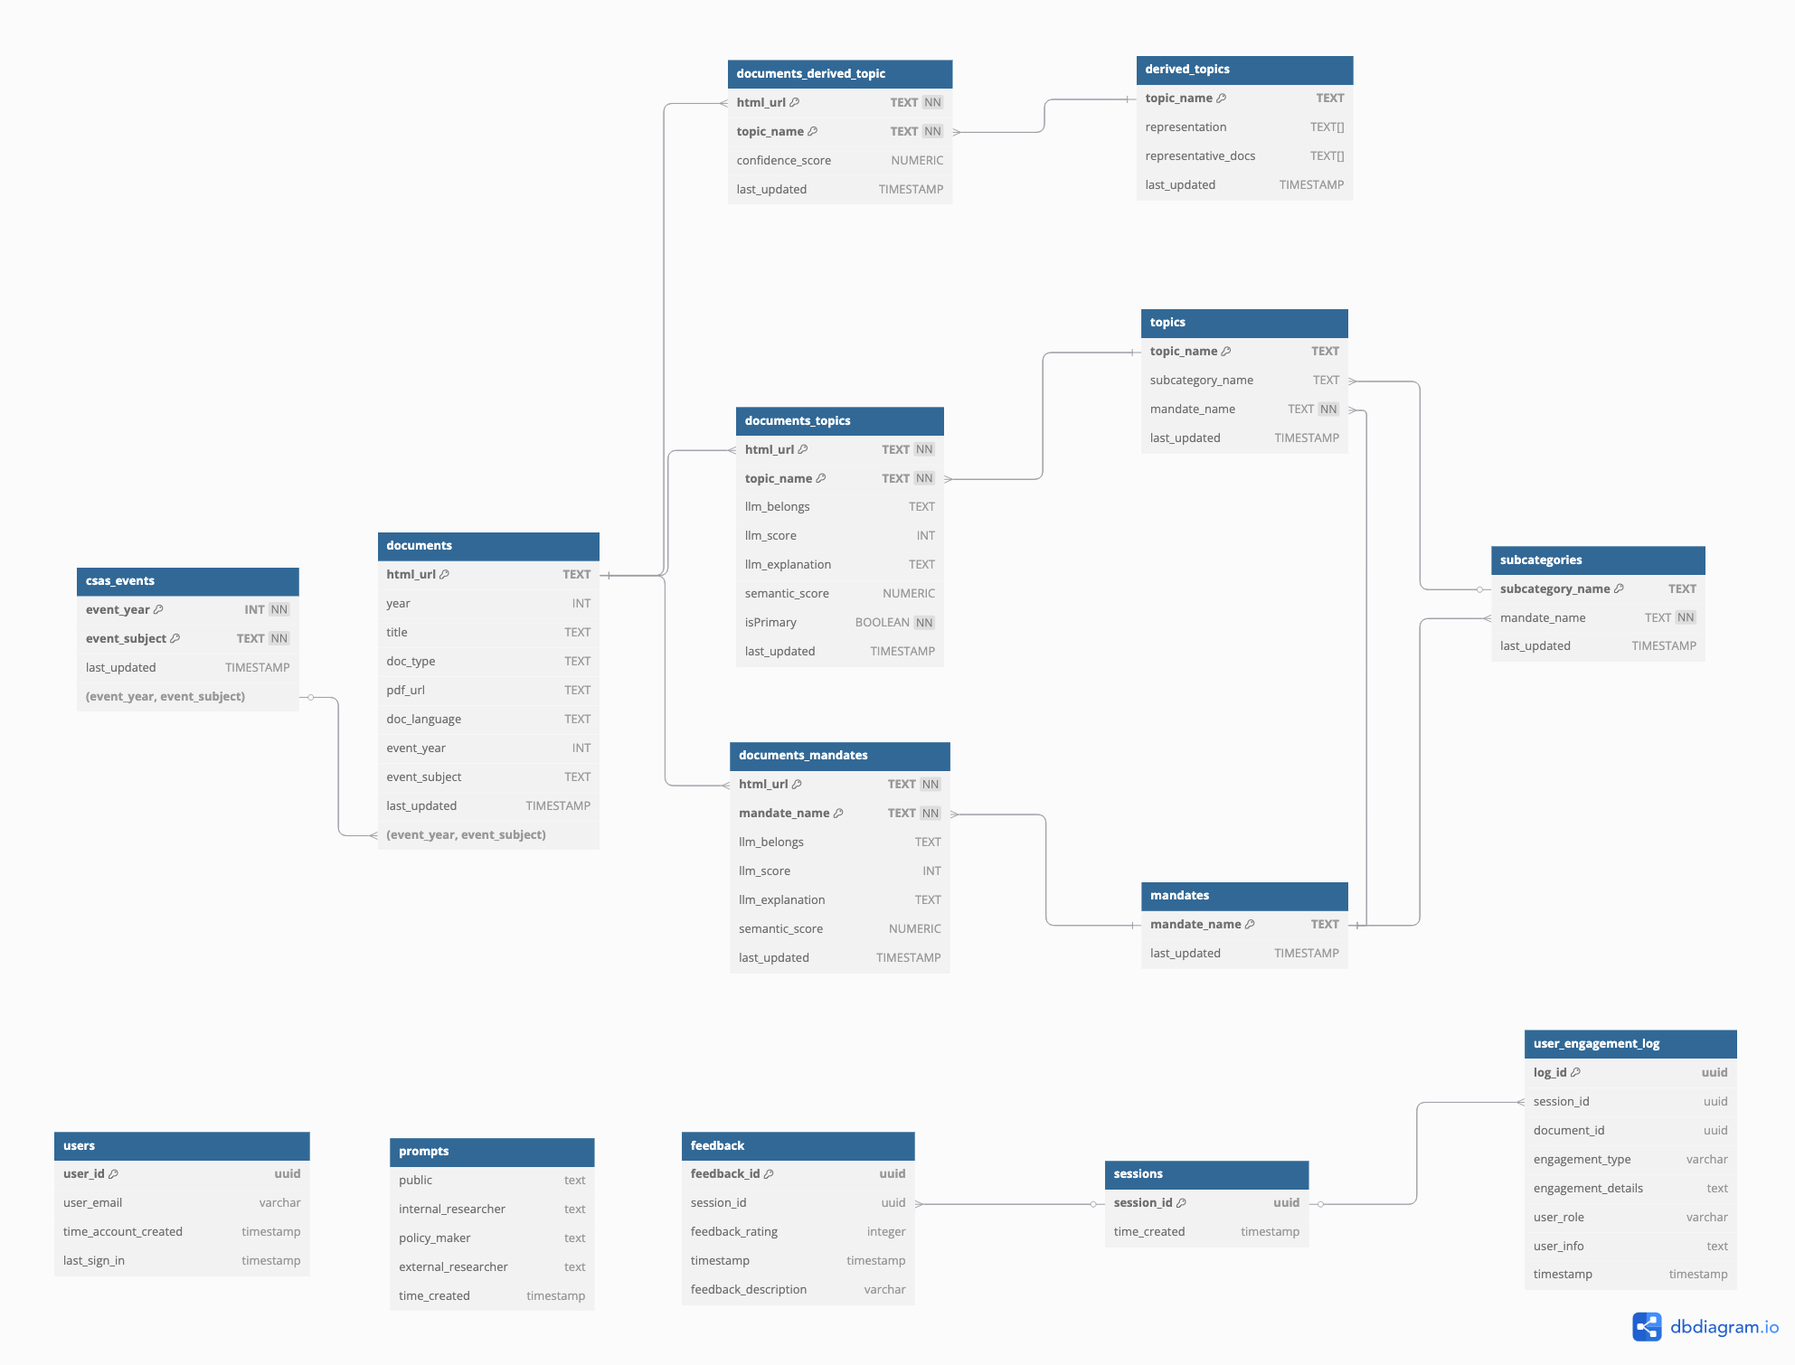
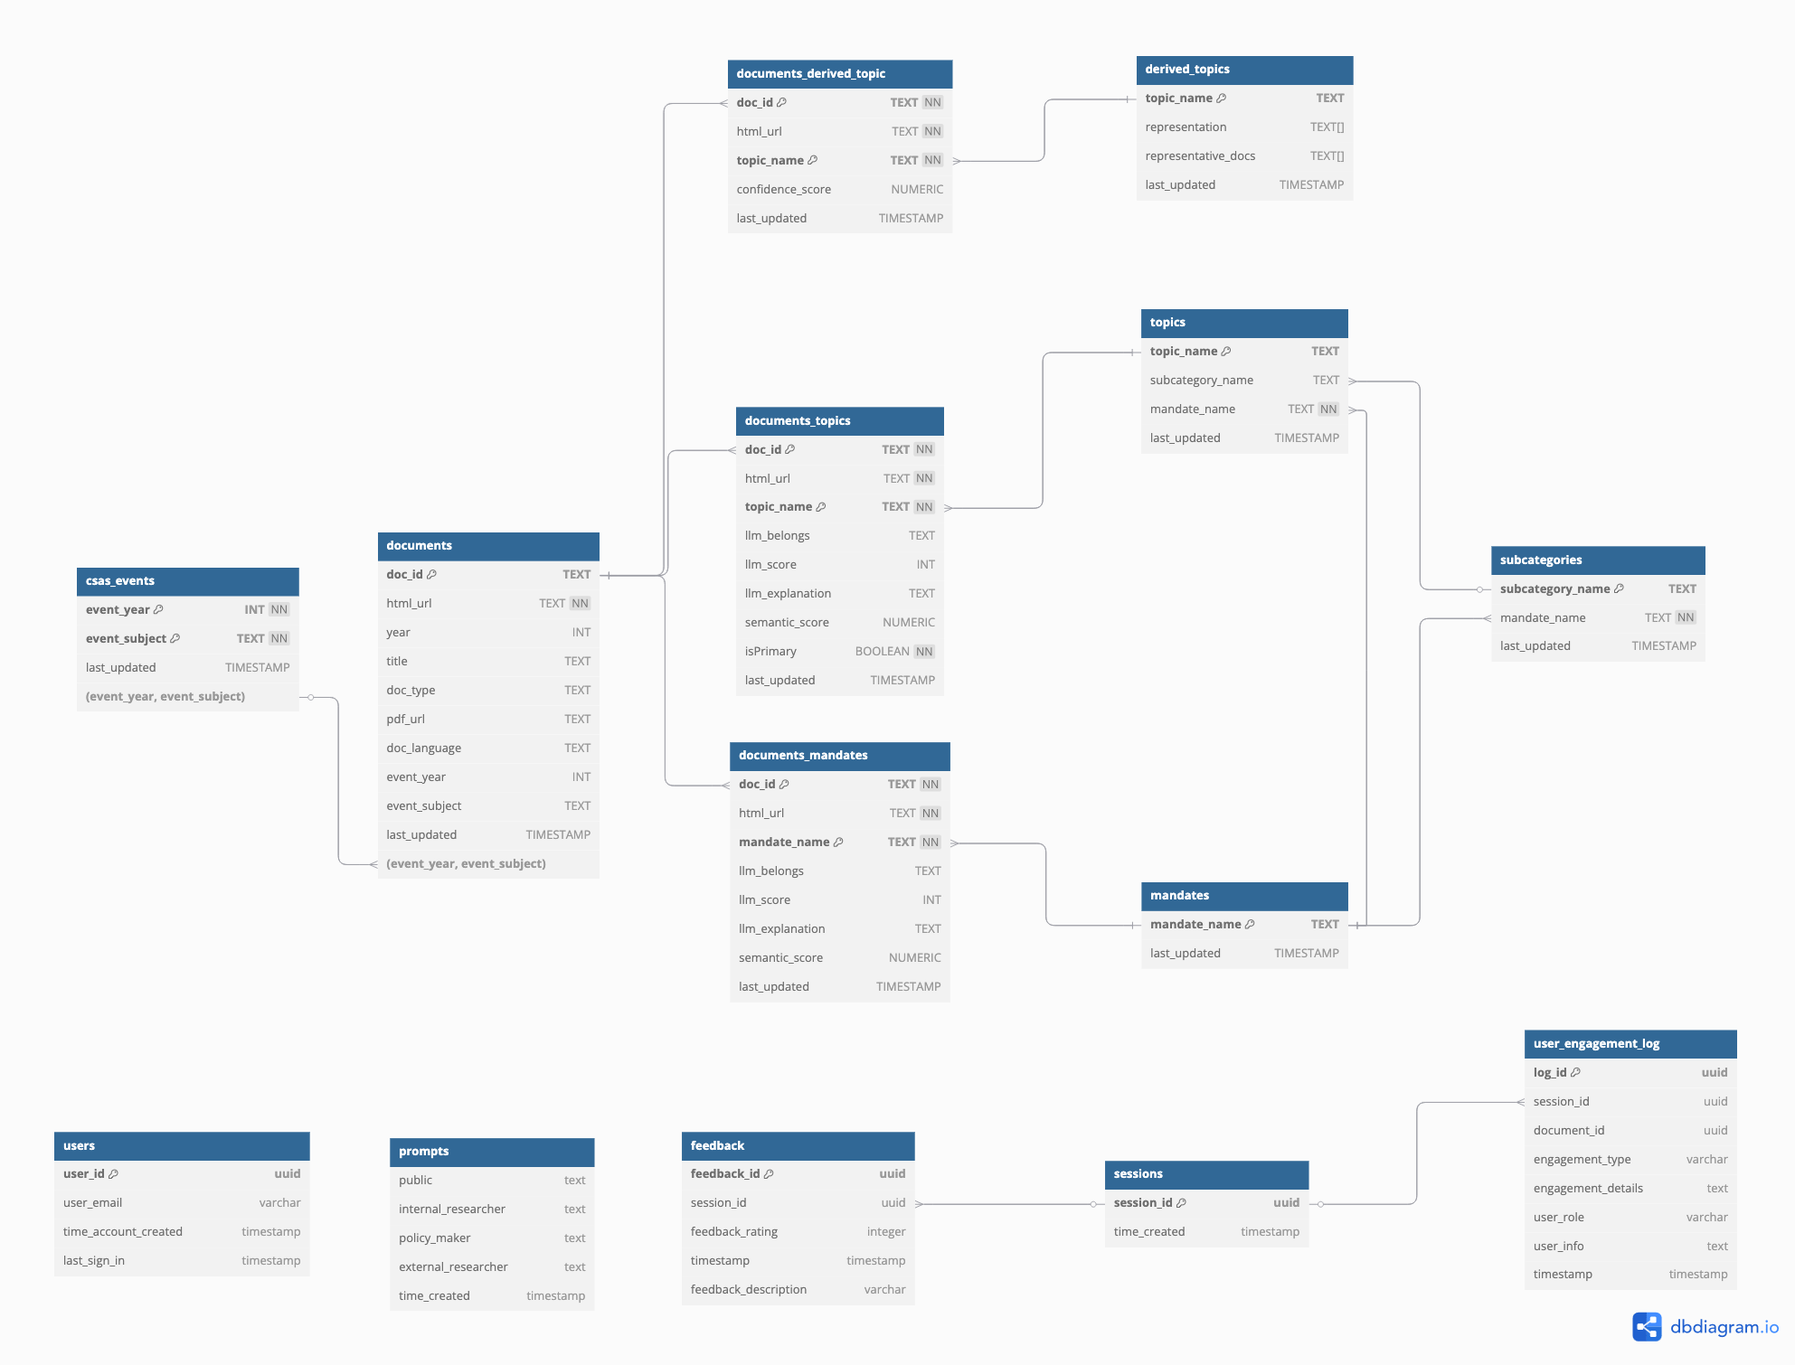
Final touchup (#23)
* various bug fixes and modification

* minor

diff --git a/cdk/lib/data-pipeline-stack.ts b/cdk/lib/data-pipeline-stack.ts
@@ -47,17 +47,18 @@ export class DataPipelineStack extends cdk.Stack {
         s3deploy.Source.data("bertopic_models/.ignore", ""),
       ],
       destinationBucket: this.dataUploadBucket,
+      prune: false
     });
 
     // Create S3 bucket for Glue scripts and custom modules
     this.glueBucket = new s3.Bucket(this, `${id}-glue-bucket`, {
       removalPolicy: cdk.RemovalPolicy.DESTROY,
       blockPublicAccess: s3.BlockPublicAccess.BLOCK_ALL,
-      encryption: s3.BucketEncryption.S3_MANAGED,
+      encryption: s3.BucketEncryption.S3_MANAGED
     });
 
     // Upload existing Glue scripts to the scripts bucket
-    new s3deploy.BucketDeployment(this, "DeployGlueScripts", {
+    new s3deploy.BucketDeployment(this, "DeployGlueJobScripts", {
       sources: [s3deploy.Source.asset("./glue/scripts/")],
       destinationBucket: this.glueBucket,
       destinationKeyPrefix: "glue/scripts",
@@ -169,9 +170,6 @@ export class DataPipelineStack extends cdk.Stack {
     "psycopg[binary]==3.2.6,boto3==1.38.1,langchain==0.3.12,langchain-community==0.3.12,langchain-aws==0.2.21,opensearch-py==2.5.0,pandas==2.2.3,openpyxl==3.1.5,numpy==1.26.4,scikit-learn==1.6.1,aiohttp==3.11.10,beautifulsoup4==4.12.3,bertopic==0.16.2,langdetect==1.0.9";
     // const PYTHON_LIBS = "boto3,langchain==0.3.12,langchain-community==0.3.12,langchain-aws==0.2.21,opensearch-py==2.5.0,openpyxl,pandas,numpy==1.26.4,scikit-learn,aiohttp==3.11.10,beautifulsoup4==4.12.3,bertopic==0.16.2,langdetect==1.0.9,psycopg[binary]==3.2.6,awswrangler";
 
-    // Not being used yet, please ignore
-    const opensearch_user_secret = opensearchStack.userSecret.secretName;
-    const opensearch_host = opensearchStack.domain.domainEndpoint;
     // Function to get common job arguments
     const getCommonJobArguments = (): GlueJobArguments => {
       return {
@@ -185,7 +183,7 @@ export class DataPipelineStack extends cdk.Stack {
         "--embedding_model": "amazon.titan-embed-text-v2:0",
         "--opensearch_secret":  opensearchStack.adminSecret.secretName,
         "--opensearch_host": opensearchStack.osHostParam.parameterName,
-        "--rds_secret": databaseStack.secretPathUser.secretName,
+        "--rds_secret": databaseStack.secretPathAdminName,
         "--dfo_html_full_index_name": "dfo-html-full-index",
         "--dfo_topic_full_index_name": "dfo-topic-full-index",
         "--dfo_mandate_full_index_name": "dfo-mandate-full-index",

diff --git a/cdk/lib/database-stack.ts b/cdk/lib/database-stack.ts
@@ -1,4 +1,4 @@
-import { Stack, StackProps, RemovalPolicy, SecretValue } from "aws-cdk-lib";
+import { Stack, StackProps, RemovalPolicy, SecretValue, CfnOutput } from "aws-cdk-lib";
 import { Construct } from "constructs";
 import { Duration } from "aws-cdk-lib";
 
@@ -47,6 +47,7 @@ export class DatabaseStack extends Stack {
      */
     this.secretPathAdminName = `${id}-DFO/credentials/DbCredential`; // Name in the Secret Manager to store DB credentials
     const secretPathUserName = `${id}-DFO/userCredentials/DbCredential`;
+    // this is the secret for the user, which is used to read/write to the database, but not to create tables
     this.secretPathUser = new secretsmanager.Secret(this, secretPathUserName, {
       secretName: secretPathUserName,
       description: "Secrets for clients to connect to RDS",
@@ -57,6 +58,7 @@ export class DatabaseStack extends Stack {
       },
     });
 
+    // this is the secret for the table creator, which is used to create the tables in the database
     const secretPathTableCreator = `${id}-DFO/userCredentials/rdsTableCreator`;
     this.secretPathTableCreator = new secretsmanager.Secret(
       this,

diff --git a/cdk/lib/opensearch-stack.ts b/cdk/lib/opensearch-stack.ts
@@ -1,4 +1,4 @@
-import { Stack, StackProps, Duration, RemovalPolicy } from "aws-cdk-lib";
+import { Stack, StackProps, Duration, RemovalPolicy, CfnOutput } from "aws-cdk-lib";
 import { Construct } from "constructs";
 import * as ec2 from "aws-cdk-lib/aws-ec2";
 import * as opensearch from "aws-cdk-lib/aws-opensearchservice";
@@ -115,5 +115,12 @@ export class OpenSearchStack extends Stack {
       parameterName: `/${id}/opensearch/user/secretArn`,
       stringValue: this.userSecret.secretArn,
     });
+
+    // // temporary workaround to still retain the cloudformation output
+    // const temp_output = new CfnOutput(this, "will-be-removed-soon", {
+    //   value: `arn:aws:secretsmanager:${this.region}:${this.account}:secret:DFO-OpenSearch-opensearch/user/credentials-BDQmoA`,
+    //   exportName: `DFO-OpenSearch:ExportsOutputRefOSUserSecretE72D1A391AA26852`
+    // });
+    // temp_output.overrideLogicalId("ExportsOutputRefOSUserSecretE72D1A391AA26852");
   }
 }

diff --git a/cdk/lambda/initializer/initializer.py b/cdk/lambda/initializer/initializer.py
@@ -69,6 +69,7 @@ def handler(event, context):
         # Create tables based on the schema
         sqlTableCreation = """
             CREATE EXTENSION IF NOT EXISTS "uuid-ossp";
+
             CREATE TABLE IF NOT EXISTS "users" (
                 "user_id" uuid PRIMARY KEY DEFAULT uuid_generate_v4(),
                 "user_email" varchar,
@@ -128,7 +129,8 @@ def handler(event, context):
 
             -- Documents Table
             CREATE TABLE IF NOT EXISTS "documents" (
-                "html_url" TEXT PRIMARY KEY,
+                "doc_id" TEXT PRIMARY KEY,
+                "html_url" TEXT UNIQUE NOT NULL,
                 "year" INT,
                 "title" TEXT,
                 "doc_type" TEXT,
@@ -174,17 +176,19 @@ def handler(event, context):
 
             -- Document-Derived_topics Many-to-One Table
             CREATE TABLE IF NOT EXISTS "documents_derived_topic" (
+                "doc_id" TEXT NOT NULL,
                 "html_url" TEXT NOT NULL,
                 "topic_name" TEXT NOT NULL,
                 "confidence_score" NUMERIC,
                 "last_updated" TIMESTAMP,
-                PRIMARY KEY("html_url", "topic_name"),
-                FOREIGN KEY ("html_url") REFERENCES "documents" ("html_url") ON DELETE CASCADE,
+                PRIMARY KEY("doc_id", "topic_name"),
+                FOREIGN KEY ("doc_id") REFERENCES "documents" ("doc_id") ON DELETE CASCADE,
                 FOREIGN KEY ("topic_name") REFERENCES "derived_topics" ("topic_name") ON DELETE CASCADE
             );
 
             -- Document-Mandates Many-to-Many Table
             CREATE TABLE IF NOT EXISTS "documents_mandates" (
+                "doc_id" TEXT NOT NULL,
                 "html_url" TEXT NOT NULL,
                 "mandate_name" TEXT NOT NULL,
                 "llm_belongs" TEXT,
@@ -192,13 +196,14 @@ def handler(event, context):
                 "llm_explanation" TEXT,
                 "semantic_score" NUMERIC,
                 "last_updated" TIMESTAMP,
-                PRIMARY KEY ("html_url", "mandate_name"),
-                FOREIGN KEY ("html_url") REFERENCES "documents" ("html_url") ON DELETE CASCADE,
+                PRIMARY KEY ("doc_id", "mandate_name"),
+                FOREIGN KEY ("doc_id") REFERENCES "documents" ("doc_id") ON DELETE CASCADE,
                 FOREIGN KEY ("mandate_name") REFERENCES "mandates" ("mandate_name") ON DELETE CASCADE
             );
 
             -- Document-Topics Many-to-Many Table
             CREATE TABLE IF NOT EXISTS "documents_topics" (
+                "doc_id" TEXT NOT NULL,
                 "html_url" TEXT NOT NULL,
                 "topic_name" TEXT NOT NULL,
                 "llm_belongs" TEXT,
@@ -207,8 +212,8 @@ def handler(event, context):
                 "semantic_score" NUMERIC,
                 "isPrimary" BOOLEAN NOT NULL,
                 "last_updated" TIMESTAMP,
-                PRIMARY KEY ("html_url", "topic_name"),
-                FOREIGN KEY ("html_url") REFERENCES "documents" ("html_url") ON DELETE CASCADE,
+                PRIMARY KEY ("doc_id", "topic_name"),
+                FOREIGN KEY ("doc_id") REFERENCES "documents" ("doc_id") ON DELETE CASCADE,
                 FOREIGN KEY ("topic_name") REFERENCES "topics" ("topic_name") ON DELETE CASCADE
             );
         """
@@ -273,8 +278,8 @@ def handler(event, context):
             GRANT CONNECT ON DATABASE postgres TO tablecreator;
 
             GRANT USAGE, CREATE ON SCHEMA public TO tablecreator;
-            GRANT SELECT, INSERT, UPDATE, DELETE ON ALL TABLES IN SCHEMA public TO tablecreator;
-            ALTER DEFAULT PRIVILEGES IN SCHEMA public GRANT SELECT, INSERT, UPDATE, DELETE ON TABLES TO tablecreator;
+            GRANT SELECT, INSERT, UPDATE, DELETE, TRUNCATE ON ALL TABLES IN SCHEMA public TO tablecreator;
+            ALTER DEFAULT PRIVILEGES IN SCHEMA public GRANT SELECT, INSERT, UPDATE, DELETE, TRUNCATE ON TABLES TO tablecreator;
             GRANT USAGE ON ALL SEQUENCES IN SCHEMA public TO tablecreator;
             ALTER DEFAULT PRIVILEGES IN SCHEMA public GRANT USAGE ON SEQUENCES TO tablecreator;
 

diff --git a/cdk/glue/scripts/topic_modelling.py b/cdk/glue/scripts/topic_modelling.py
@@ -44,7 +44,9 @@ args = getResolvedOptions(sys.argv, [
     'dfo_topic_full_index_name',
     'dfo_mandate_full_index_name',
     'pipeline_mode',
-    'llm_model'
+    'llm_model',
+    'sm_method',
+    'topic_modelling_mode'
 ])
 
 REGION_NAME = args['region_name']
@@ -248,9 +250,11 @@ def generate_topic_labels(
             continue
 
         top_words = [word for word, _ in topic_model.get_topic(topic_id)[:num_words]]
+        top_words = ", ".join(top_words)
         docs = topic_model.get_representative_docs(topic_id)[:num_docs]
-
-        prompt = f"""
+        docs = "\n\n".join(docs)
+        
+        prompt = """
         <|begin_of_text|><|start_header_id|>system<|end_header_id|>
         You are labeling research topics for Fisheries and Oceans Canada using BERTopic clusters.
 
@@ -273,13 +277,13 @@ def generate_topic_labels(
         - “Fisheries Bycatch in Atlantic Canada”
 
         Data for this topic:
-        - Top words: {', '.join(top_words)}
+        - Top words: {top_words}
         - Representative documents:
-        {"\n\n".join(docs)}
+        {docs}
 
         Respond with the **topic label only** — no explanations.
         <|eot_id|><|start_header_id|>assistant<|end_header_id|>
-        """
+        """.format(top_words=top_words, docs=docs)
 
         body = json.dumps({
             "prompt": prompt,
@@ -682,7 +686,7 @@ def main(dryrun=False, debug=False):
         # Load existing models from S3
         s3_client = session.client('s3')
         bucket = args['bucket_name']
-        s3_model_path = f"bertopic_model"
+        s3_model_path = f"bertopic_models"
         
         # Create temporary directory
         temp_dir = "temp_outputs/bertopic"
@@ -851,7 +855,7 @@ def main(dryrun=False, debug=False):
     # Save models and data to S3
     s3_client = session.client('s3')
     bucket = args['bucket_name']
-    s3_output_path = f"bertopic_model"
+    s3_output_path = f"bertopic_models"
     
     # Create temporary directory for model files
     os.makedirs(temp_dir, exist_ok=True)

diff --git a/cdk/glue/scripts/vector_llm_categorization.py b/cdk/glue/scripts/vector_llm_categorization.py
@@ -7,7 +7,7 @@ import os
 import json
 import asyncio
 from collections import defaultdict
-from typing import Dict, List, Optional, Tuple, Any
+from typing import Dict, List, Optional, Tuple, Any, Union
 from datetime import datetime
 import hashlib
 
@@ -47,7 +47,9 @@ args = getResolvedOptions(sys.argv, [
     'dfo_topic_full_index_name',
     'dfo_mandate_full_index_name',
     'pipeline_mode',
-    'llm_model'
+    'llm_model',
+    'sm_method',
+    'topic_modelling_mode'
 ])
 
 # Index Names
@@ -486,7 +488,7 @@ def numpy_semantic_similarity_categorization(
     return full_df, max_df
 
 
-def semantic_similarity(targets, target_embeddings, documents, document_embeddings, method="numpy", n=10, vector_store=None) -> pd.DataFrame | dict:
+def semantic_similarity(targets, target_embeddings, documents, document_embeddings, method="numpy", n=10, vector_store=None) -> Union[pd.DataFrame, dict]:
     """
     Perform semantic similarity using either numpy or OpenSearch.
     """
@@ -846,6 +848,7 @@ def trigger_next_job(job_name: str, job_args: dict) -> None:
     glue_client = session.client('glue')
     try:
         formatted_args = {f"--{k}": v for k, v in job_args.items()}
+        del formatted_args['--NEXT_JOB_NAME'] # this arg is handled via CDK, so we don't want to retrigger the same job
         response = glue_client.start_job_run(
             JobName=job_name,
             Arguments=formatted_args

diff --git a/cdk/glue/scripts/sql_ingestion.py b/cdk/glue/scripts/sql_ingestion.py
@@ -34,7 +34,9 @@ args = getResolvedOptions(sys.argv, [
     'dfo_topic_full_index_name',
     'dfo_mandate_full_index_name',
     'pipeline_mode',
-    'llm_model'
+    'llm_model',
+    'sm_method',
+    'topic_modelling_mode'
 ])
 
 
@@ -493,6 +495,7 @@ def trigger_next_job(job_name: str, job_args: dict) -> None:
     glue_client = session.client('glue')
     try:
         formatted_args = {f"--{k}": v for k, v in job_args.items()}
+        del formatted_args['--NEXT_JOB_NAME'] # this arg is handled via CDK, so we don't want to retrigger the same job
         response = glue_client.start_job_run(
             JobName=job_name,
             Arguments=formatted_args
@@ -507,7 +510,7 @@ def main(dryrun: bool = False, debug: bool = False):
     print(f"Dryrun: {dryrun}, Debug: {debug}")
     # Get AWS credentials and parameters
     opensearch_host = aws.get_parameter_ssm(parameter_name=args['opensearch_host'], region_name=args['region_name'])
-    rds_secret = aws.get_secret(args['rds_secret'])
+    rds_secret = aws.get_secret(args['rds_secret'], args['region_name'])
 
     # Initialize OpenSearch client with fallback authentication
     client, auth = init_opensearch_client(

diff --git a/cdk/glue/scripts/clean_and_ingest_html.py b/cdk/glue/scripts/clean_and_ingest_html.py
@@ -50,7 +50,9 @@ args = getResolvedOptions(sys.argv, [
     'pipeline_mode',
     'sm_method',
     'topic_modelling_mode',
-    'llm_model'
+    'llm_model',
+    'sm_method',
+    'topic_modelling_mode'
 ])
 
 # Index Names
@@ -938,6 +940,7 @@ def trigger_next_job(job_name: str, job_args: dict) -> None:
     glue_client = session.client('glue')
     try:
         formatted_args = {f"--{k}": v for k, v in job_args.items()}
+        del formatted_args['--NEXT_JOB_NAME'] # this arg is handled via CDK, so we don't want to retrigger the same job
         response = glue_client.start_job_run(
             JobName=job_name,
             Arguments=formatted_args

diff --git a/cdk/glue/scripts/ingest_topics_and_mandates.py b/cdk/glue/scripts/ingest_topics_and_mandates.py
@@ -45,7 +45,9 @@ args = getResolvedOptions(sys.argv, [
     'pipeline_mode'
     'sm_method',
     'topic_modelling_mode',
-    'llm_model'
+    'llm_model',
+    'sm_method',
+    'topic_modelling_mode'
 ])
 
 # Index Names
@@ -450,6 +452,7 @@ def trigger_next_job(job_name: str, job_args: dict) -> None:
     glue_client = session.client('glue')
     try:
         formatted_args = {f"--{k}": v for k, v in job_args.items()}
+        del formatted_args['--NEXT_JOB_NAME'] # this arg is handled via CDK, so we don't want to retrigger the same job
         response = glue_client.start_job_run(
             JobName=job_name,
             Arguments=formatted_args

diff --git a/docs/deploymentGuide.md b/docs/deploymentGuide.md
@@ -210,7 +210,8 @@ For more information on the files, please refer to the [Data Pipeline](./dataPre
 ```bash
 aws glue start-job-run \
     --job-name 'DFO-DataPipeline-clean-and-ingest-html' \
-    --arguments '{"--batch_id": "<your-batch-id>", "--html_urls_path": "<your-html-data-s3-uri>", "--pipeline_mode": "full_update"}' \
+    --arguments '{"--batch_id": "<your-batch-id>", "--html_urls_path": "<your-html-data-s3-uri>", "--pipeline_mode": "full_update", 
+    "--topic_modelling_mode": "retrain"}' \
     --profile <your-aws-profile-name>
 ```
 
@@ -221,7 +222,7 @@ Example:
 ```bash
 aws glue start-job-run \
     --job-name 'DFO-DataPipeline-clean-and-ingest-html' \
-    --arguments '{"--batch_id": "2025_05_21", "--html_urls_path": "s3://smartsearch-dataupload/batches/2025_05_21/html_data/new_html_urls.xlsx", "--pipeline_mode": "full_update"}' \
+    --arguments '{"--batch_id": "2025_05_21", "--html_urls_path": "s3://smartsearch-dataupload/batches/2025_05_21/html_data/new_html_urls.xlsx", "--pipeline_mode": "full_update", "--topic_modelling_mode": "retrain"}' \
     --profile myprofile
 ```
 
@@ -240,6 +241,10 @@ For example, if you only have new html urls to ingest for batch `2025_06_01`, yo
 Similarly, if you only have new topics or mandates to ingest for batch `2025_06_01`, you just need to upload the new `csv` files to the `topics_mandates_data` folder. Y
 
 If you have **BOTH** new html urls and topics or mandates to ingest for batch `2025_06_01`, do it as if it is a fresh deployment (`full_update`).
+
+**Note for the Topic Modelling mode**:
+
+By default, the data pipeline will use `retrain` for the `topic_modelling_mode`  to signify that you want to retrain the BERTopic model every time you run the data pipeline. You can also choose to use `predict` to use the existing BERTopic model and just classify new documents. For first time deployment, you must use `retrain`. For more information on the topic modelling mode, please refer to the [Topic Modelling](./deepdive/topicModelling.md) documentation.
 
 ### Task 2: Build AWS Amplify App
 

diff --git a/docs/architectureDeepDive.md b/docs/architectureDeepDive.md
@@ -163,7 +163,8 @@ Core table storing metadata about all documents in the system. This includes doc
 
 | Column Name | Data Type | Description | Constraints |
 |------------|-----------|-------------|-------------|
-| html_url | TEXT | URL of the HTML document | PK |
+| doc_id | TEXT | Unique identifier for the document | PK |
+| html_url | TEXT | URL of the HTML document | UNIQUE |
 | year | INT | Publication year | |
 | title | TEXT | Document title | |
 | doc_type | TEXT | Type of document | |
@@ -215,7 +216,7 @@ Maps documents to their automatically discovered topics. This table stores the r
 
 | Column Name | Data Type | Description | Constraints |
 |------------|-----------|-------------|-------------|
-| html_url | TEXT | Document URL | PK, FK (documents) |
+| doc_id | TEXT | Document ID | PK, FK (documents) |
 | topic_name | TEXT | Derived topic name | PK, FK (derived_topics) |
 | confidence_score | NUMERIC | Confidence score of the categorization | |
 | last_updated | TIMESTAMP | Last update timestamp | |
@@ -225,7 +226,7 @@ Links documents to their associated mandates. This table stores both LLM-based a
 
 | Column Name | Data Type | Description | Constraints |
 |------------|-----------|-------------|-------------|
-| html_url | TEXT | Document URL | PK, FK (documents) |
+| doc_id | TEXT | Document ID | PK, FK (documents) |
 | mandate_name | TEXT | Mandate name | PK, FK (mandates) |
 | llm_belongs | TEXT | LLM categorization result | |
 | llm_score | INT | LLM confidence score | |
@@ -238,7 +239,7 @@ Maps documents to their associated topics. This table maintains the relationship
 
 | Column Name | Data Type | Description | Constraints |
 |------------|-----------|-------------|-------------|
-| html_url | TEXT | Document URL | PK, FK (documents) |
+| doc_id | TEXT | Document ID | PK, FK (documents) |
 | topic_name | TEXT | Topic name | PK, FK (topics) |
 | llm_belongs | TEXT | LLM categorization result | |
 | llm_score | INT | LLM confidence score | |
